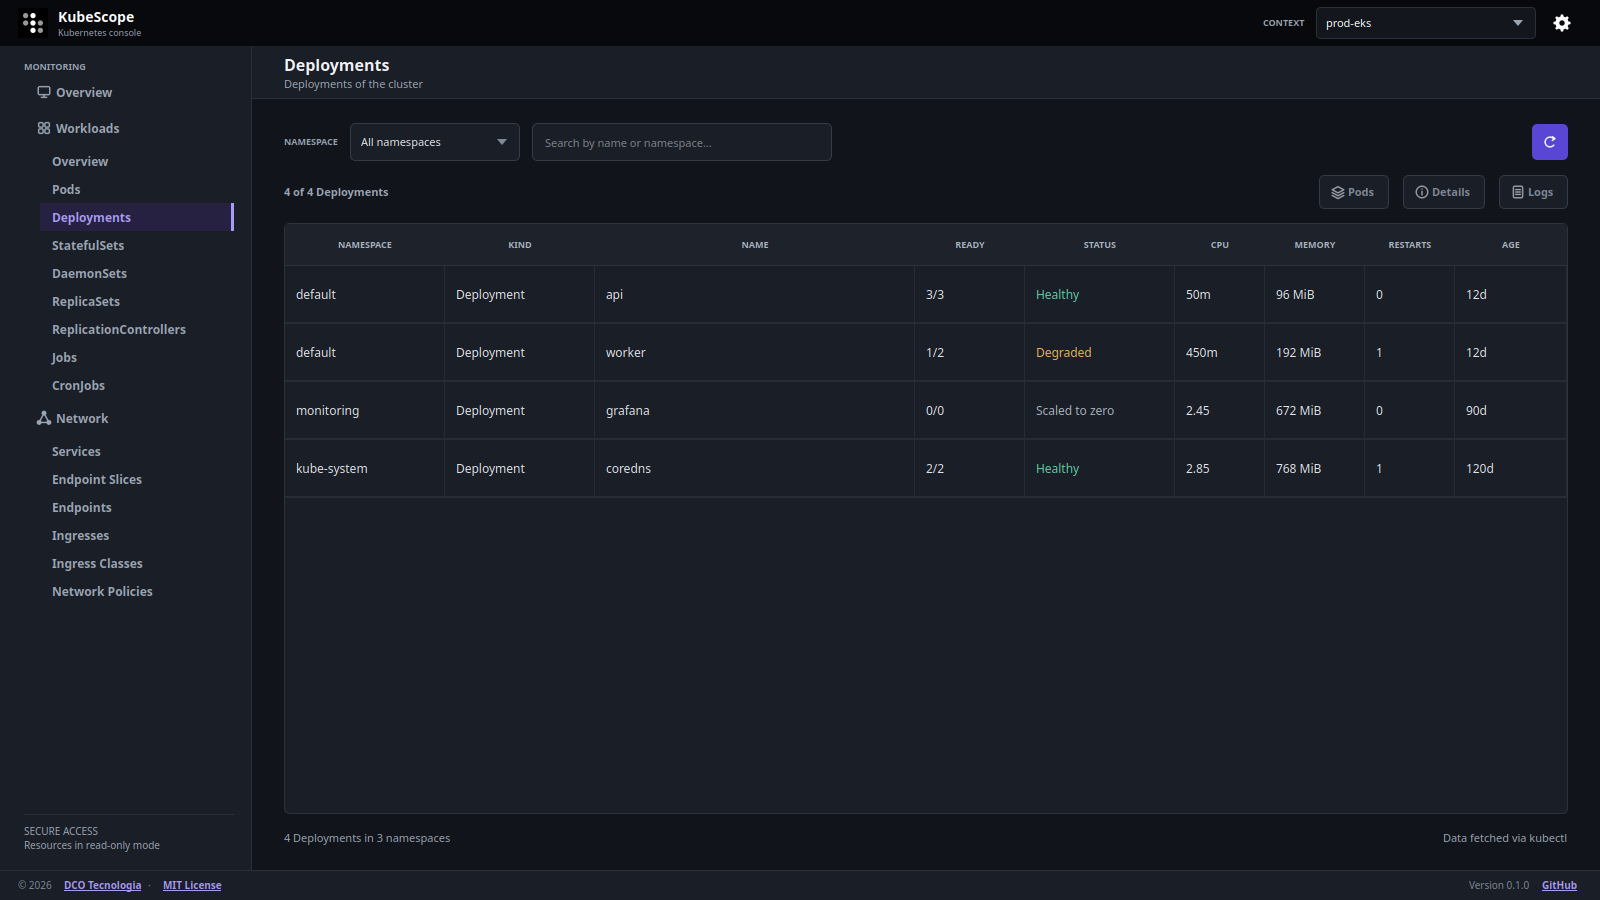
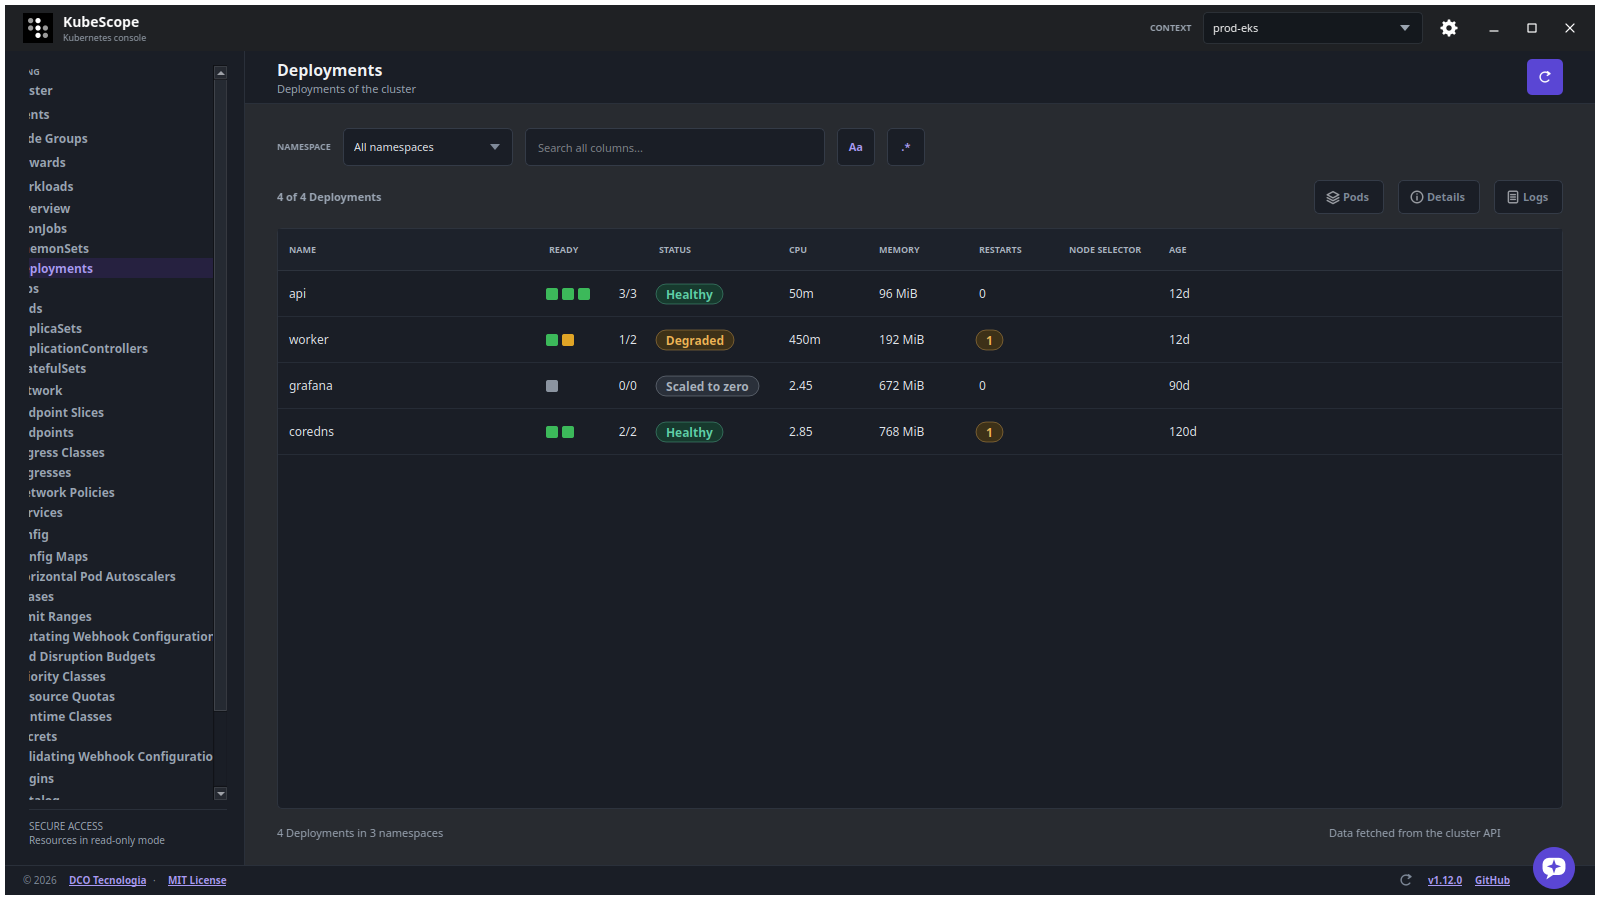
feat(screenshots): update screenshot generation and refresh images in documentation

diff --git a/README.md b/README.md
@@ -73,7 +73,7 @@ on the wiki. To connect to your clusters, see
 ![KubeScope cluster overview](docs/screenshots/overview.png)
 
 _The cluster overview, shown with sample data. Regenerate it with
-`make screenshot`._
+`make screenshot`, which also renders the ones below._
 
 ![KubeScope Deployments list](docs/screenshots/store/deployments-dark.png)
 
